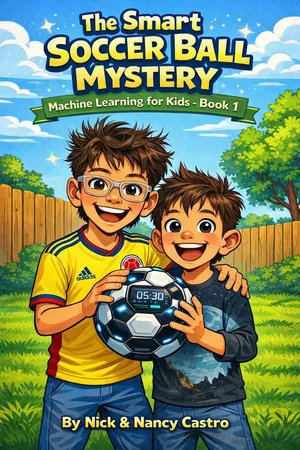
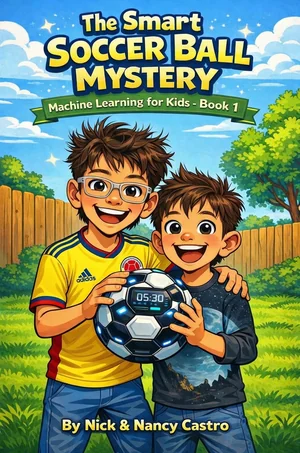
Add /book/ page with signed-copy ordering via Stripe Payment Links (paperback live; hardcover hidden until in stock)

diff --git a/book/index.html b/book/index.html
@@ -1,0 +1,256 @@
+<!doctype html>
+<html lang="en">
+<head>
+  <meta charset="utf-8">
+  <meta name="referrer" content="strict-origin-when-cross-origin">
+  <meta name="viewport" content="width=device-width, initial-scale=1">
+  <title>The Smart Soccer Ball Mystery — Signed copies by Nick &amp; Nancy Castro</title>
+  <meta name="description" content="Buy a signed paperback or hardcover of The Smart Soccer Ball Mystery, a 24-page picture book for ages 6–10 that teaches kids how AI learns. By Nicolas &amp; Nancy Castro. Also on Amazon.">
+  <script src="/ga.js"></script>
+  <link rel="canonical" href="https://nickcastrobuilds.com/book/">
+  <meta name="robots" content="index, follow, max-image-preview:large">
+  <meta name="author" content="Nick Castro">
+  <link rel="alternate" type="text/plain" href="/llms.txt" title="llms.txt">
+  <meta name="theme-color" content="#1d4ed8">
+
+  <meta property="og:type" content="book">
+  <meta property="og:site_name" content="Nick Castro">
+  <meta property="og:url" content="https://nickcastrobuilds.com/book/">
+  <meta property="og:title" content="The Smart Soccer Ball Mystery — Signed copies">
+  <meta property="og:description" content="A 24-page picture book for ages 6–10 that teaches kids how AI learns from examples. Written by Nick and Nancy Castro. Buy a signed copy direct from the authors.">
+  <meta property="og:image" content="https://nickcastrobuilds.com/images/book-og.jpg">
+  <meta property="og:image:width" content="1200">
+  <meta property="og:image:height" content="630">
+  <meta property="og:locale" content="en_US">
+  <meta property="og:image:alt" content="Cover of The Smart Soccer Ball Mystery: Machine Learning for Kids, Book 1">
+  <meta property="book:author" content="Nicolas Castro">
+  <meta property="book:author" content="Nancy Castro">
+  <meta property="book:isbn" content="9798252610078">
+  <meta name="twitter:card" content="summary_large_image">
+  <meta name="twitter:title" content="The Smart Soccer Ball Mystery — Signed copies">
+  <meta name="twitter:description" content="A 24-page picture book for ages 6–10 that teaches kids how AI learns from examples. Buy a signed copy direct from the authors.">
+  <meta name="twitter:image" content="https://nickcastrobuilds.com/images/book-og.jpg">
+  <meta name="twitter:image:alt" content="Cover of The Smart Soccer Ball Mystery: Machine Learning for Kids, Book 1">
+
+  <link rel="icon" href="/favicon.ico" sizes="48x48">
+  <link rel="icon" href="/favicon.svg" type="image/svg+xml">
+  <link rel="apple-touch-icon" href="/apple-touch-icon.png">
+  <link rel="preload" href="/fonts/inter-latin.woff2" as="font" type="font/woff2" crossorigin>
+  <style>@font-face{font-family:'Inter';font-style:normal;font-weight:400 800;font-display:swap;src:url(/fonts/inter-latin.woff2) format('woff2');unicode-range:U+0000-00FF,U+0131,U+0152-0153,U+02BB-02BC,U+02C6,U+02DA,U+02DC,U+0304,U+0308,U+0329,U+2000-206F,U+20AC,U+2122,U+2191,U+2193,U+2212,U+2215,U+FEFF,U+FFFD}</style>
+  <link rel="stylesheet" href="/styles.css">
+  <script type="application/ld+json">
+{
+  "@context": "https://schema.org",
+  "@type": "Book",
+  "@id": "https://nickcastrobuilds.com/book/#book",
+  "name": "The Smart Soccer Ball Mystery: Machine Learning for Kids – Book 1",
+  "url": "https://nickcastrobuilds.com/book/",
+  "image": "https://nickcastrobuilds.com/images/book-cover-800.jpg",
+  "description": "What happens when a smart soccer ball learns from all the WRONG examples? Ten-year-old Nolan is PUMPED when his coach gives him a high-tech AI soccer ball to test. There's just one problem: the SmartBall 3000 tells him to close his eyes before shooting! With help from his younger brother Nathan and their tech-savvy dad, Nolan discovers the AI learned from terrible examples, the kindergarten team's \"silly soccer\" game! Can Nolan reset the AI and teach it the right way? And why does their dog Oreo keep trying to steal the ball?",
+  "author": [
+    {
+      "@type": "Person",
+      "@id": "https://nickcastrobuilds.com/#person",
+      "name": "Nicolas Castro",
+      "alternateName": "Nick Castro",
+      "url": "https://nickcastrobuilds.com/"
+    },
+    {
+      "@type": "Person",
+      "name": "Nancy Castro"
+    }
+  ],
+  "numberOfPages": 24,
+  "typicalAgeRange": "6-10",
+  "inLanguage": "en",
+  "genre": "Children's picture book",
+  "bookFormat": [
+    "https://schema.org/Paperback",
+    "https://schema.org/Hardcover"
+  ],
+  "isbn": "9798252610078",
+  "identifier": [
+    {
+      "@type": "PropertyValue",
+      "propertyID": "ISBN",
+      "name": "Paperback ISBN",
+      "value": "979-8-252610-07-8"
+    },
+    {
+      "@type": "PropertyValue",
+      "propertyID": "ISBN",
+      "name": "Hardcover ISBN",
+      "value": "979-8-1828-7871-5"
+    }
+  ],
+  "aggregateRating": {
+    "@type": "AggregateRating",
+    "ratingValue": "5",
+    "bestRating": "5",
+    "ratingCount": "5"
+  },
+  "workExample": [
+    {
+      "@type": "Book",
+      "bookFormat": "https://schema.org/Paperback",
+      "isbn": "9798252610078",
+      "name": "The Smart Soccer Ball Mystery (Paperback)",
+      "url": "https://a.co/d/09uH5j59",
+      "offers": {
+        "@type": "Offer",
+        "price": "14.99",
+        "priceCurrency": "USD",
+        "availability": "https://schema.org/InStock",
+        "url": "https://a.co/d/09uH5j59"
+      }
+    },
+    {
+      "@type": "Book",
+      "bookFormat": "https://schema.org/Hardcover",
+      "isbn": "9798182878715",
+      "name": "The Smart Soccer Ball Mystery (Hardcover)",
+      "offers": {
+        "@type": "Offer",
+        "price": "19.99",
+        "priceCurrency": "USD",
+        "availability": "https://schema.org/PreOrder"
+      }
+    }
+  ],
+  "sameAs": [
+    "https://a.co/d/09uH5j59"
+  ]
+}
+  </script>
+</head>
+<body>
+  <a class="skip" href="#main">Skip to content</a>
+
+  <header class="nav" id="top">
+    <div class="wrap nav-inner">
+      <a class="brand" href="/">Nick Castro</a>
+      <button class="menu-btn" aria-expanded="false" aria-controls="nav-links" aria-label="Open menu">
+        <span></span><span></span><span></span>
+      </button>
+      <nav id="nav-links" class="nav-links" aria-label="Main">
+        <a href="/#work">Work</a>
+        <a href="/book/" aria-current="page">Book</a>
+        <a href="/#about">About</a>
+        <a href="/#contact">Contact</a>
+      </nav>
+    </div>
+  </header>
+
+  <main id="main">
+    <section class="hero book-hero">
+      <div class="wrap book-hero-grid">
+        <div class="book-cover">
+          <img src="/images/book-cover-800.webp"
+               srcset="/images/book-cover-800.webp 529w, /images/book-cover-800.jpg 529w"
+               sizes="(min-width: 768px) 280px, 200px"
+               width="529" height="800"
+               fetchpriority="high" decoding="async"
+               alt="Cover of The Smart Soccer Ball Mystery: Machine Learning for Kids, Book 1, by Nick and Nancy Castro">
+        </div>
+        <div class="book-hero-copy">
+          <span class="tag">Children's Book · Ages 6–10</span>
+          <h1>The Smart Soccer Ball Mystery</h1>
+          <p class="book-subtitle">Machine Learning for Kids · Book 1</p>
+          <p class="lead">A 24-page illustrated picture book about an AI soccer ball that learns from all the wrong examples — written by Nick and his wife Nancy for their sons.</p>
+          <p class="book-meta">By Nicolas &amp; Nancy Castro · 5-star rated on Amazon</p>
+          <div class="actions">
+            <a class="btn btn-primary" href="#order">Buy a signed copy</a>
+            <a class="btn btn-ghost" href="https://a.co/d/09uH5j59" target="_blank" rel="noopener">View on Amazon</a>
+          </div>
+        </div>
+      </div>
+    </section>
+
+    <section class="section" id="about-book">
+      <div class="wrap narrow">
+        <h2>About the book</h2>
+        <p>What happens when a smart soccer ball learns from all the WRONG examples?</p>
+        <p>Ten-year-old Nolan is PUMPED when his coach gives him a high-tech AI soccer ball to test. There's just one problem: the SmartBall 3000 tells him to close his eyes before shooting!</p>
+        <p>With help from his younger brother Nathan and their tech-savvy dad, Nolan discovers the AI learned from terrible examples, the kindergarten team's "silly soccer" game! Can Nolan reset the AI and teach it the right way? And why does their dog Oreo keep trying to steal the ball?</p>
+        <h3 class="book-h3">What kids will learn</h3>
+        <ul class="book-list">
+          <li>How AI learns from examples and patterns</li>
+          <li>Why the quality of training data matters</li>
+          <li>Critical thinking about technology</li>
+        </ul>
+        <p>Includes discussion questions, AI words to know, and a try-it-at-home activity. A perfect read-aloud for classrooms, libraries, and STEM programs.</p>
+      </div>
+    </section>
+
+    <section class="section section-alt" id="look-inside">
+      <div class="wrap">
+        <h2>A peek inside</h2>
+        <div class="book-previews">
+          <figure class="book-preview">
+            <img src="/images/book-interior-01.webp"
+                 srcset="/images/book-interior-01.webp 720w, /images/book-interior-01.jpg 720w"
+                 sizes="(min-width: 640px) 45vw, calc(100vw - 40px)"
+                 width="720" height="463" loading="lazy" decoding="async"
+                 alt="Illustration of Nolan, Nathan, and Dad meeting the glowing SmartBall 3000 in their living room">
+            <figcaption>Nolan powers on the SmartBall 3000</figcaption>
+          </figure>
+          <figure class="book-preview">
+            <img src="/images/book-interior-02.webp"
+                 srcset="/images/book-interior-02.webp 720w, /images/book-interior-02.jpg 720w"
+                 sizes="(min-width: 640px) 45vw, calc(100vw - 40px)"
+                 width="720" height="463" loading="lazy" decoding="async"
+                 alt="Illustration of Nolan and Nathan resetting the SmartBall 3000 so they can teach it with good examples">
+            <figcaption>Resetting the AI to teach it the right way</figcaption>
+          </figure>
+        </div>
+      </div>
+    </section>
+
+    <section class="section" id="order">
+      <div class="wrap narrow">
+        <h2>Buy a signed copy direct from the authors</h2>
+        <p>Nick and Nancy will sign your copy and ship it to you. Shipping is added at checkout.</p>
+
+        <!--
+          STRIPE PAYMENT LINKS (live, Nick Castro Builds account)
+          Paperback: https://buy.stripe.com/9B65kD6uWg3Zbdda9V0RG00
+          Hardcover: https://buy.stripe.com/7sY14n3iK2d9811ci30RG01
+        -->
+        <div class="book-buy-actions">
+          <a class="btn btn-primary book-buy-btn"
+             id="stripe-paperback"
+             href="https://buy.stripe.com/9B65kD6uWg3Zbdda9V0RG00">Signed Paperback · $14.99 + shipping</a>
+          <!-- Hardcover button hidden until signed hardcover copies are in stock:
+          <a class="btn btn-ghost book-buy-btn"
+             id="stripe-hardcover"
+             href="https://buy.stripe.com/7sY14n3iK2d9811ci30RG01">Signed Hardcover · $19.99 + shipping</a>
+          -->
+        </div>
+
+        <div class="book-buy-notes">
+          <p><strong>Teachers and librarians:</strong> classroom sets of 5+ get a discount. <a href="mailto:nickcastro1520@gmail.com?subject=Classroom%20set%20-%20The%20Smart%20Soccer%20Ball%20Mystery">Email Nick</a> to order. A free classroom guide is available on request by email.</p>
+          <p class="book-amazon">Prefer Amazon? <a href="https://a.co/d/09uH5j59" target="_blank" rel="noopener">Paperback $14.99 · Kindle $4.99 (free on Kindle Unlimited)</a></p>
+          <p class="book-isbns">Paperback ISBN 979-8-252610-07-8 · Hardcover ISBN 979-8-1828-7871-5 (coming soon through bookstores and libraries)</p>
+        </div>
+      </div>
+    </section>
+
+    <section class="section contact" id="contact">
+      <div class="wrap narrow center">
+        <h2>Questions about the book?</h2>
+        <p>Classroom sets, library orders, or a signed copy for a gift — just say hi.</p>
+        <div class="actions center">
+          <a class="btn btn-light" id="email-btn" href="mailto:nickcastro1520@gmail.com?subject=The%20Smart%20Soccer%20Ball%20Mystery">Email me</a>
+          <a class="btn btn-outline-light" id="call-btn" href="tel:+17082501040">Call or text (708) 250-1040</a>
+        </div>
+      </div>
+    </section>
+  </main>
+
+  <footer class="footer">
+    <div class="wrap">© 2026 Nick Castro · <a href="/">nickcastrobuilds.com</a></div>
+  </footer>
+
+  <script src="/main.js"></script>
+</body>
+</html>

diff --git a/index.html b/index.html
@@ -315,8 +315,9 @@
    "numberOfPages": 24,
    "typicalAgeRange": "6-10",
    "bookFormat": "https://schema.org/Paperback",
-   "url": "https://a.co/d/09uH5j59",
-   "image": "https://nickcastrobuilds.com/images/book-400.webp",
+   "url": "https://nickcastrobuilds.com/book/",
+   "image": "https://nickcastrobuilds.com/images/book-cover-800.jpg",
+   "sameAs": "https://a.co/d/09uH5j59",
    "description": "A picture book that teaches kids how AI learns from data, and why good data matters."
   },
   {
@@ -344,6 +345,7 @@
       </button>
       <nav id="nav-links" class="nav-links" aria-label="Main">
         <a href="#work">Work</a>
+        <a href="/book/">Book</a>
         <a href="#about">About</a>
         <a href="#contact">Contact</a>
       </nav>
@@ -458,14 +460,14 @@
 
           <article class="card">
             <div class="media media-book">
-              <img src="images/book-400.webp" srcset="images/book-300.webp 300w, images/book-400.webp 400w" sizes="160px" width="832" height="1248" loading="lazy" decoding="async"
+              <img src="images/book-400.webp" srcset="images/book-300.webp 300w, images/book-400.webp 400w" sizes="160px" width="400" height="604" loading="lazy" decoding="async"
                    alt="Cover of The Smart Soccer Ball Mystery: Machine Learning for Kids, Book 1, by Nick and Nancy Castro">
             </div>
             <div class="card-body">
               <span class="tag">Children's Book</span>
               <h3>The Smart Soccer Ball Mystery</h3>
-              <p><em>The Smart Soccer Ball Mystery: Machine Learning for Kids – Book 1</em> is a 24-page picture book for ages 6–10 that I co-wrote with Nancy Castro and published on Amazon. A boy named Nolan gets an AI soccer ball that gives terrible advice, and he learns it was trained on bad examples. The story teaches kids how AI learns from data, and why good data matters.</p>
-              <a class="btn btn-small" href="https://a.co/d/09uH5j59" target="_blank" rel="noopener">View on Amazon →</a>
+              <p><em>The Smart Soccer Ball Mystery: Machine Learning for Kids – Book 1</em> is a 24-page picture book for ages 6–10 that I co-wrote with Nancy Castro. A boy named Nolan gets an AI soccer ball that gives terrible advice, and he learns it was trained on bad examples. The story teaches kids how AI learns from data, and why good data matters. Order a signed copy, or get it on Amazon.</p>
+              <a class="btn btn-small" href="/book/">Get the book →</a>
             </div>
           </article>
 

diff --git a/styles.css b/styles.css
@@ -92,3 +92,38 @@ p{margin:0 0 1em}
 .card p em{padding-right:.12em}
 .hero + .section{padding-top:24px}
 @media (min-width:768px){.hero{padding-bottom:72px}.hero + .section{padding-top:40px}}
+
+/* Book page */
+.book-hero{padding-bottom:48px}
+.book-hero-grid{display:grid;gap:32px;align-items:center}
+@media (min-width:768px){
+  .book-hero-grid{grid-template-columns:280px 1fr;gap:48px}
+  .book-hero{padding-bottom:72px}
+}
+.book-cover{justify-self:center;max-width:220px}
+@media (min-width:768px){.book-cover{max-width:280px;justify-self:start}}
+.book-cover img{width:100%;height:auto;border-radius:8px;box-shadow:0 18px 40px -16px rgba(15,23,42,.45)}
+.book-hero-copy .tag{margin-bottom:14px}
+.book-hero h1{font-size:clamp(1.9rem,5vw,3rem);font-weight:800;max-width:18ch;margin-bottom:.25em}
+.book-subtitle{font-weight:600;color:var(--accent);margin:0 0 1em}
+.book-meta{color:var(--muted);font-size:.95rem;margin-top:-.25em}
+.book-h3{font-size:1.25rem;font-weight:700;margin:28px 0 12px}
+.book-list{margin:0 0 1.25em;padding-left:1.2em;color:#334155}
+.book-list li{margin-bottom:.45em}
+.book-previews{display:grid;grid-template-columns:1fr;gap:24px}
+@media (min-width:640px){.book-previews{grid-template-columns:repeat(2,1fr)}}
+.book-preview{margin:0;background:#fff;border:1px solid var(--line);border-radius:var(--radius);overflow:hidden;box-shadow:0 1px 2px rgba(15,23,42,.04)}
+.book-preview img{width:100%;height:auto;aspect-ratio:720/463;object-fit:cover}
+.book-preview figcaption{padding:12px 16px;font-size:.9rem;color:var(--muted);border-top:1px solid var(--line)}
+.book-buy-actions{display:flex;flex-direction:column;gap:12px;margin:28px 0 24px}
+@media (min-width:560px){.book-buy-actions{flex-direction:row;flex-wrap:wrap}}
+.book-buy-btn{width:100%;text-align:center}
+@media (min-width:560px){.book-buy-btn{width:auto;flex:1 1 auto}}
+.book-soon{font-weight:500;opacity:.75;font-size:.9em}
+.book-buy-notes{color:#334155;font-size:1rem}
+.book-buy-notes p{margin-bottom:.9em}
+.book-amazon{margin-top:1.25em}
+.book-isbns{font-size:.9rem;color:var(--muted)}
+.nav-links a[aria-current="page"]{color:var(--accent);font-weight:700}
+.footer a{color:var(--muted);text-decoration:none}
+.footer a:hover{color:var(--accent)}

diff --git a/main.js b/main.js
@@ -7,11 +7,18 @@ const CONFIG = {
 (function () {
   const email = document.getElementById("email-btn");
   const linkedin = document.getElementById("linkedin-btn");
-  if (CONFIG.email) { email.href = "mailto:" + CONFIG.email; email.hidden = false; } else { email.hidden = true; }
-  if (CONFIG.linkedin) { linkedin.href = CONFIG.linkedin; linkedin.hidden = false; } else { linkedin.hidden = true; }
+  if (email) {
+    if (CONFIG.email) { email.href = email.getAttribute("href") || ("mailto:" + CONFIG.email); email.hidden = false; }
+    else { email.hidden = true; }
+  }
+  if (linkedin) {
+    if (CONFIG.linkedin) { linkedin.href = CONFIG.linkedin; linkedin.hidden = false; }
+    else { linkedin.hidden = true; }
+  }
 
   const btn = document.querySelector(".menu-btn");
   const links = document.getElementById("nav-links");
+  if (!btn || !links) return;
   const setOpen = (open) => {
     links.classList.toggle("open", open);
     btn.setAttribute("aria-expanded", String(open));
